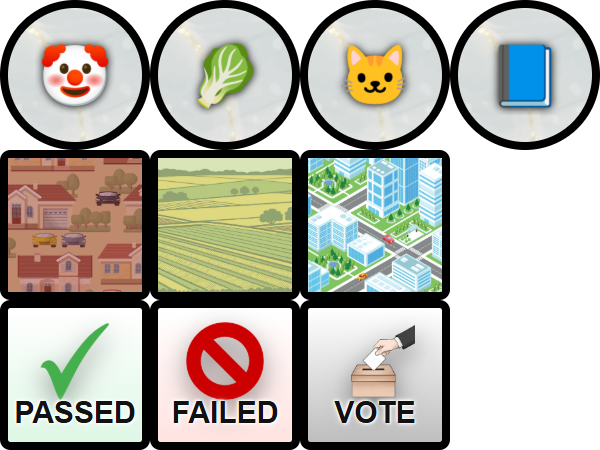
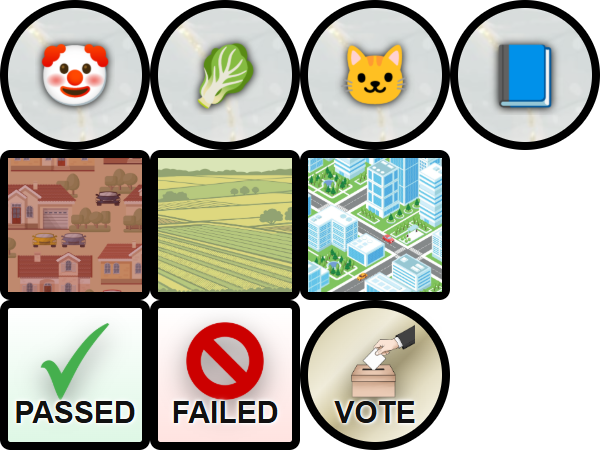
latest:

Changed region(s): [[0.48, 0.6533, 0.75, 1.0]]

diff --git a/Html.FamilyTriangle/javascript/cardsResolutionData.js b/Html.FamilyTriangle/javascript/cardsResolutionData.js
@@ -11,6 +11,12 @@ define([
   //-----------------------------------
   var gCardConfigs = null;
 
+  // Just a reminder:
+  // 0: Clowns
+  // 1: Veggies
+  // 2: Cats
+  // 3. Education
+
   function generateCardConfigs() {
     if (gCardConfigs !== null) {
       return gCardConfigs;
@@ -24,7 +30,31 @@ define([
         "player-icon-0": 2,
         "player-icon-1": 1,
       },
-      text: "Clowns may not serve kale to children.",
+      text: "Subsidies to help clowns buy parsnips.",
+    });
+    gCardConfigs.push({
+      terrainCount: 1,
+      playerIconCounts: {
+        "player-icon-0": 2,
+        "player-icon-2": 1,
+      },
+      text: "Bi-weekly clown visits to cat shelters.",
+    });
+    gCardConfigs.push({
+      terrainCount: 1,
+      playerIconCounts: {
+        "player-icon-0": 2,
+        "player-icon-3": 1,
+      },
+      text: 'Eliminate tariffs on imports of "How to Clown".',
+    });
+    gCardConfigs.push({
+      terrainCount: 1,
+      playerIconCounts: {
+        "player-icon-1": 2,
+        "player-icon-0": 1,
+      },
+      text: '<b>"Clown Salad Appreciation Day."</b>',
     });
     gCardConfigs.push({
       terrainCount: 1,
@@ -32,7 +62,31 @@ define([
         "player-icon-1": 2,
         "player-icon-2": 1,
       },
-      text: "It is illegal to sell chard to kittens.",
+      text: "Fund research on celery's contribution to kitty litter.",
+    });
+    gCardConfigs.push({
+      terrainCount: 1,
+      playerIconCounts: {
+        "player-icon-1": 2,
+        "player-icon-3": 1,
+      },
+      text: "Introduce Artichokes-for-A's program in local elementary schools.",
+    });
+    gCardConfigs.push({
+      terrainCount: 1,
+      playerIconCounts: {
+        "player-icon-2": 2,
+        "player-icon-0": 1,
+      },
+      text: "Cats wearing clown wigs may run for local offices.",
+    });
+    gCardConfigs.push({
+      terrainCount: 1,
+      playerIconCounts: {
+        "player-icon-2": 2,
+        "player-icon-1": 1,
+      },
+      text: "Crack down on illegal kitten/potato cage matches.",
     });
     gCardConfigs.push({
       terrainCount: 1,
@@ -40,7 +94,7 @@ define([
         "player-icon-2": 2,
         "player-icon-3": 1,
       },
-      text: "Eliminate subsidies to teach French to housecats",
+      text: "Every classroom must have 3 books highlighting the feline lifestyle.",
     });
     gCardConfigs.push({
       terrainCount: 1,
@@ -48,7 +102,23 @@ define([
         "player-icon-3": 2,
         "player-icon-0": 1,
       },
-      text: "Remove all references to the Clowning Lifestyle from children's textbooks",
+      text: "Clowns may be hired as substitute teachers.",
+    });
+    gCardConfigs.push({
+      terrainCount: 1,
+      playerIconCounts: {
+        "player-icon-3": 2,
+        "player-icon-1": 1,
+      },
+      text: "Qualified Jalapeno Peppers may enroll in the local junior college.",
+    });
+    gCardConfigs.push({
+      terrainCount: 1,
+      playerIconCounts: {
+        "player-icon-3": 2,
+        "player-icon-2": 1,
+      },
+      text: "Reduce taxes on school plays featuring cats in lead roles.",
     });
 
     // 2-terrain:
@@ -58,7 +128,7 @@ define([
         "player-icon-0": 1,
         "player-icon-1": 1,
       },
-      text: "10% tax on carrots to fund anti-Clown initiatives.",
+      text: "Lift the ban on lettuce-affirming japery in clown acts.",
     });
     gCardConfigs.push({
       terrainCount: 2,
@@ -66,7 +136,7 @@ define([
         "player-icon-0": 1,
         "player-icon-2": 1,
       },
-      text: "Cats may not dress as Clowns for Halloween.",
+      text: "Children dressed as cat-clowns are entitled to double candy on Halloween.",
     });
     gCardConfigs.push({
       terrainCount: 2,
@@ -74,7 +144,7 @@ define([
         "player-icon-0": 1,
         "player-icon-3": 1,
       },
-      text: "25% hike in City Clown College tuition.",
+      text: "Widen the highway leading to Nicky's Clown College.",
     });
     gCardConfigs.push({
       terrainCount: 2,
@@ -82,7 +152,7 @@ define([
         "player-icon-1": 1,
         "player-icon-2": 1,
       },
-      text: "Catfood and leeks must be sold at different stores.",
+      text: "Allow Helen Anderson to merge <b>Helen's Catfood Emporium</b> and <b>Helen's Spinach Boutique</b>.",
     });
     gCardConfigs.push({
       terrainCount: 2,
@@ -90,7 +160,7 @@ define([
         "player-icon-1": 1,
         "player-icon-3": 1,
       },
-      text: "Turnips need special permission to take higher math classes.",
+      text: "Expand vegetarian options for school lunches.",
     });
     gCardConfigs.push({
       terrainCount: 2,
@@ -98,7 +168,7 @@ define([
         "player-icon-2": 1,
         "player-icon-3": 1,
       },
-      text: "30% emergency cat food supplies diverted to school lunches.",
+      text: "Dedicate salmon surplus to local schools and cat shelters.",
     });
 
     // 3 terrain.
@@ -107,28 +177,28 @@ define([
       playerIconCounts: {
         "player-icon-0": 1,
       },
-      text: "Max 3 clowns per car.",
+      text: "Relax seatbelt laws for Clown Cars.",
     });
     gCardConfigs.push({
       terrainCount: 3,
       playerIconCounts: {
         "player-icon-1": 1,
       },
-      text: "5% hike on brussels sprouts tariffs.",
+      text: 'Coordinate a yearly <br><b>"Fun with Fennel Fair"</b>.',
     });
     gCardConfigs.push({
       terrainCount: 3,
       playerIconCounts: {
         "player-icon-2": 1,
       },
-      text: "Catnip is a <b>Schedule 1</b> drug.",
+      text: "Ban on rocking chairs.",
     });
     gCardConfigs.push({
       terrainCount: 3,
       playerIconCounts: {
         "player-icon-3": 1,
       },
-      text: "Hoboes may be hired as substitute teachers.",
+      text: "Certified teachers may share food at buffets.",
     });
 
     return gCardConfigs;

diff --git a/Html.FamilyTriangle/javascript/cardsColorData.js b/Html.FamilyTriangle/javascript/cardsColorData.js
@@ -11,7 +11,7 @@ define([
   //
   //-----------------------------------
   var gCardConfigs = null;
-  const gAllBlueCount = 2;
+  const gAllBlueCount = 1;
 
   //-----------------------------------
   //
@@ -59,6 +59,20 @@ define([
       allBlueTerrainTypeArray,
     );
     return allBlueCardConfig;
+  }
+
+  function generateStartingTileCardConfig() {
+    var startingTileTerrainTypeArray = [
+      gameInfo.terrainTypes.Blue,
+      gameInfo.terrainTypes.Red,
+      gameInfo.terrainTypes.Green,
+      gameInfo.terrainTypes.Yellow,
+    ];
+
+    var startingTileCardConfig = terrainTypeArrayToCardConfig(
+      startingTileTerrainTypeArray,
+    );
+    return startingTileCardConfig;
   }
 
   function convertTerrainTypeArraysToCardConfigs(terrainTypeArrays) {
@@ -293,11 +307,15 @@ define([
       JSON.stringify(gCardConfigs),
     );
 
-    // Add some all-swamps.
+    // Add all-swamps.
     for (var i = 0; i < gAllBlueCount; i++) {
       var allBlueCardConfig = generateAllBlueCardConfig();
       gCardConfigs.push(allBlueCardConfig);
     }
+
+    // Add starting tile:
+    var startingTileCardConfig = generateStartingTileCardConfig();
+    gCardConfigs.push(startingTileCardConfig);
 
     return gCardConfigs;
   }

diff --git a/Html.FamilyTriangle/css/tokens.css b/Html.FamilyTriangle/css/tokens.css
@@ -50,7 +50,8 @@
   background: linear-gradient(to bottom, #ffffff, #ffe3e0);
 }
 .dice.tokens .die.tokens.voting-tools .face.vote {
-  background: linear-gradient(to bottom, #ffffff, #bebebe);
+  border-radius: 50%;
+  background: linear-gradient(135deg, #c5bb91, #e2dcc0 20%, #f1eddb 35%, #d3c99f 50%, #bdb28a 55%, #e5dfc5 72%, #f2eedc 85%, #c2b78d);
 }
 
 /*# sourceMappingURL=tokens.css.map */

diff --git a/Html.FamilyTriangle/scss/tokens.scss b/Html.FamilyTriangle/scss/tokens.scss
@@ -71,7 +71,16 @@
     }
 
     .face.vote {
-      background: linear-gradient(to bottom, #ffffff, #bebebe);
+      border-radius: 50%;
+      background: linear-gradient(135deg,
+          #c5bb91,
+          #e2dcc0 20%,
+          #f1eddb 35%,
+          #d3c99f 50%,
+          #bdb28a 55%,
+          #e5dfc5 72%,
+          #f2eedc 85%,
+          #c2b78d);
     }
   }
 }
